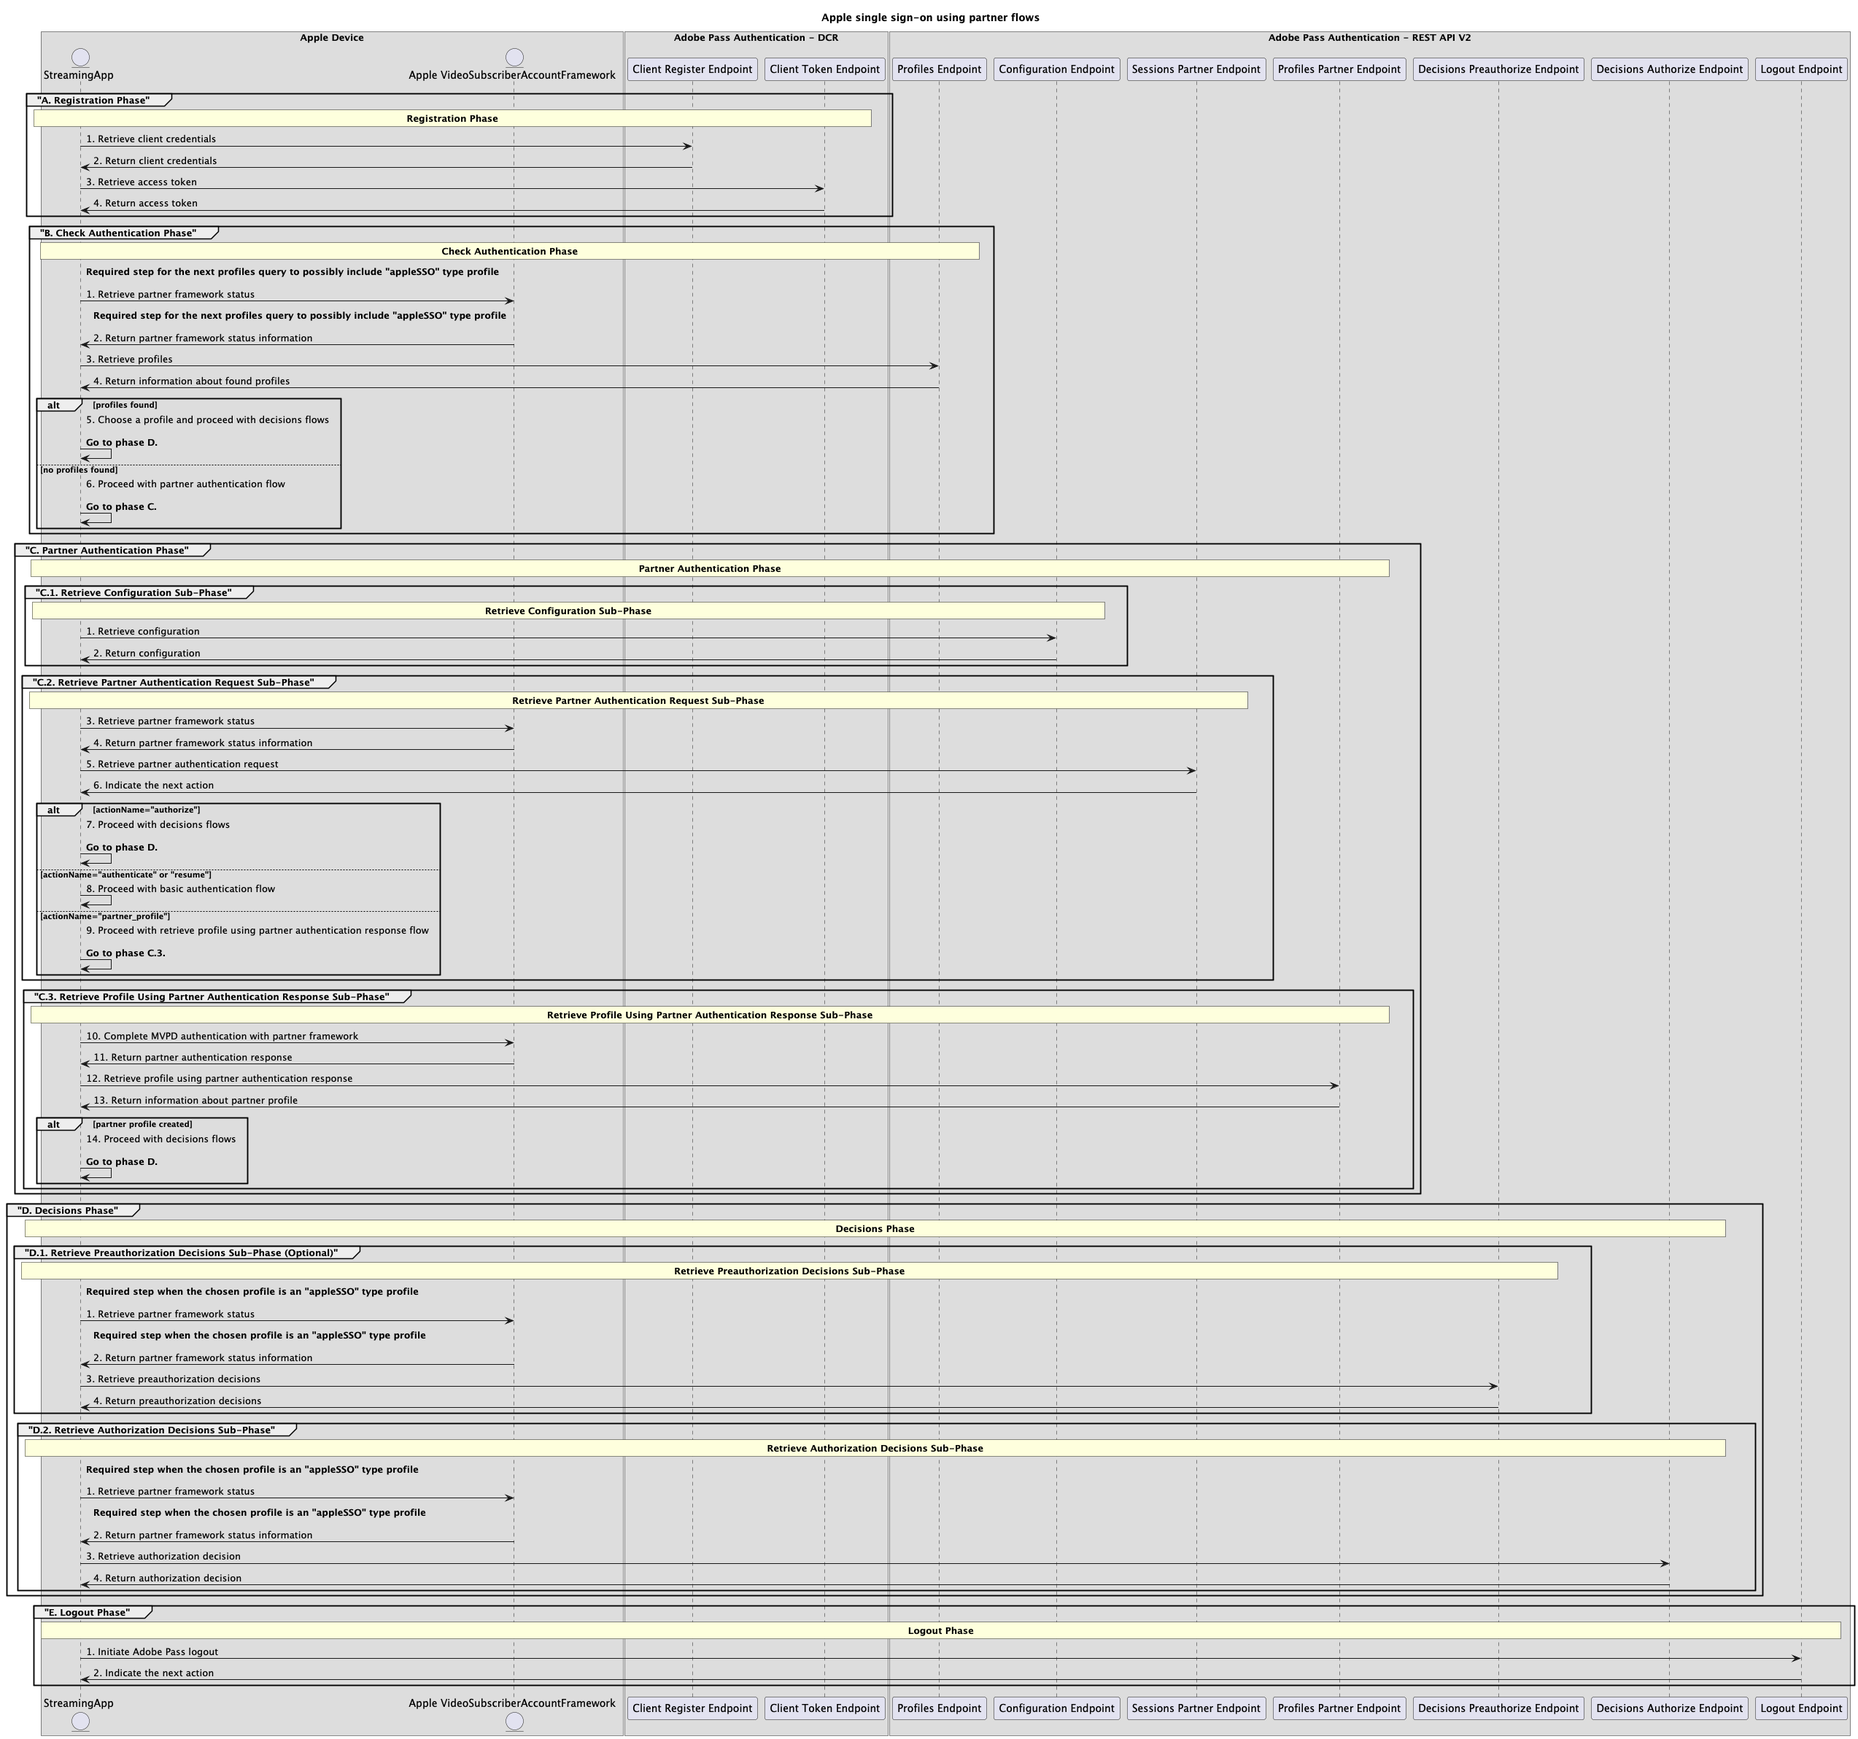
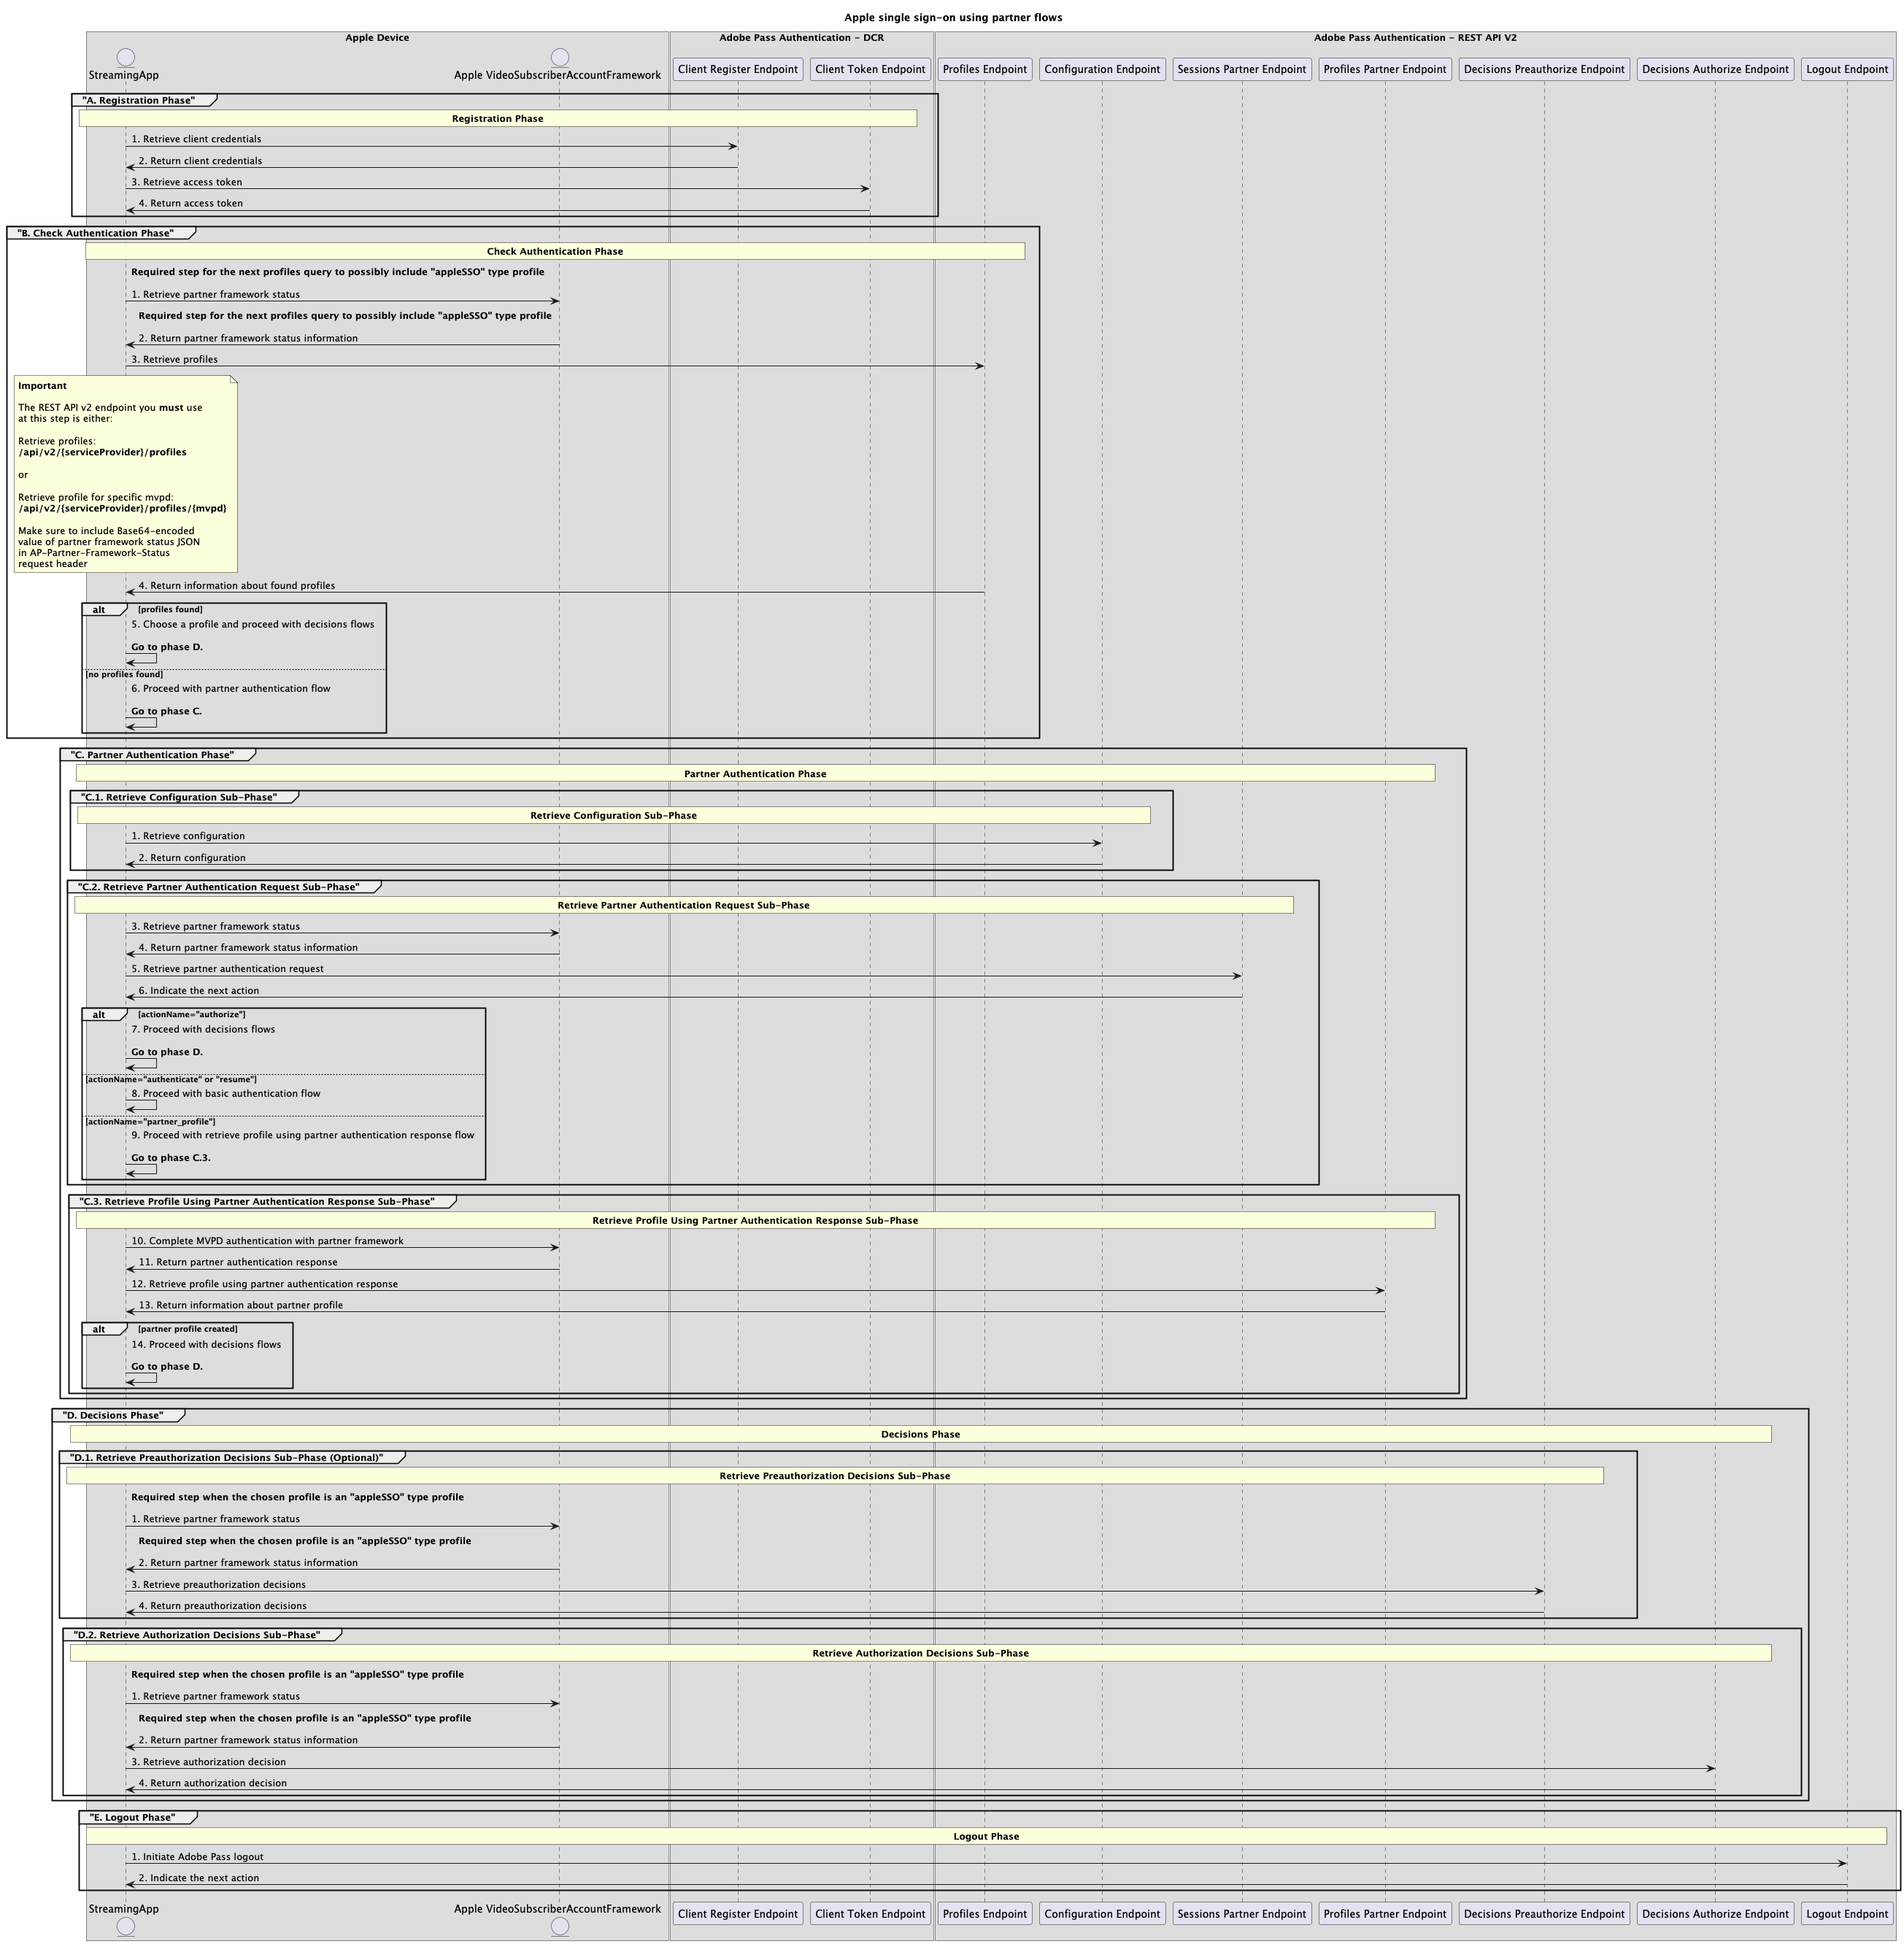
[DOC] Add important note for Apple SSO cookbook in REST API v2 (#239)

Changed region(s): [[0.0, 0.0, 1.0, 1.0], [0.4653, 0.1862, 0.4963, 0.2173]]

diff --git a/help/authentication/integration-guide-programmers/features-standard/sso-access/partner-sso/apple-sso/apple-sso-cookbook-rest-api-v2.md b/help/authentication/integration-guide-programmers/features-standard/sso-access/partner-sso/apple-sso/apple-sso-cookbook-rest-api-v2.md
@@ -190,10 +190,22 @@ Perform the given steps to implement the Apple single sign-on using partner flow
 1. **Retrieve profiles:** The streaming application gathers all the necessary data to retrieve all profiles information by sending a request to the Profiles endpoint.
 
    >[!IMPORTANT]
+   > 
+   > The REST API v2 endpoint you **must** use at this step is either:
    >
-   > Refer to the [Retrieve profiles](/help/authentication/integration-guide-programmers/rest-apis/rest-api-v2/apis/profiles-apis/rest-api-v2-profiles-apis-retrieve-profiles.md#Request) API documentation for details on:
+   > * [Retrieve profiles](/help/authentication/integration-guide-programmers/rest-apis/rest-api-v2/apis/profiles-apis/rest-api-v2-profiles-apis-retrieve-profiles.md#Request) API
+   > 
+   > or
+   > 
+   > * [Retrieve profiles for specific mvpd](/help/authentication/integration-guide-programmers/rest-apis/rest-api-v2/apis/profiles-apis/rest-api-v2-profiles-apis-retrieve-profile-for-specific-mvpd.md#Request) API
    >
-   > * All the _required_ parameters, like `serviceProvider`
+   > Make sure you **do not** make use of [Create and retrieve profile using partner authentication response](/help/authentication/integration-guide-programmers/rest-apis/rest-api-v2/apis/partner-single-sign-on-apis/rest-api-v2-partner-single-sign-on-apis-retrieve-profile-using-partner-authentication-response.md#Request) API at this step. 
+
+   >[!IMPORTANT]
+   >
+   > Refer to the [Retrieve profiles](/help/authentication/integration-guide-programmers/rest-apis/rest-api-v2/apis/profiles-apis/rest-api-v2-profiles-apis-retrieve-profiles.md#Request) API or [Retrieve profiles for specific mvpd](/help/authentication/integration-guide-programmers/rest-apis/rest-api-v2/apis/profiles-apis/rest-api-v2-profiles-apis-retrieve-profile-for-specific-mvpd.md#Request) API documentation for details on:
+   >
+   > * All the _required_ parameters, like `serviceProvider` (or `mvpd`)
    > * All the _required_ headers, like `Authorization`, `AP-Device-Identifier`, and `AP-Partner-Framework-Status`
    > * All the _optional_ parameters and headers
    >
